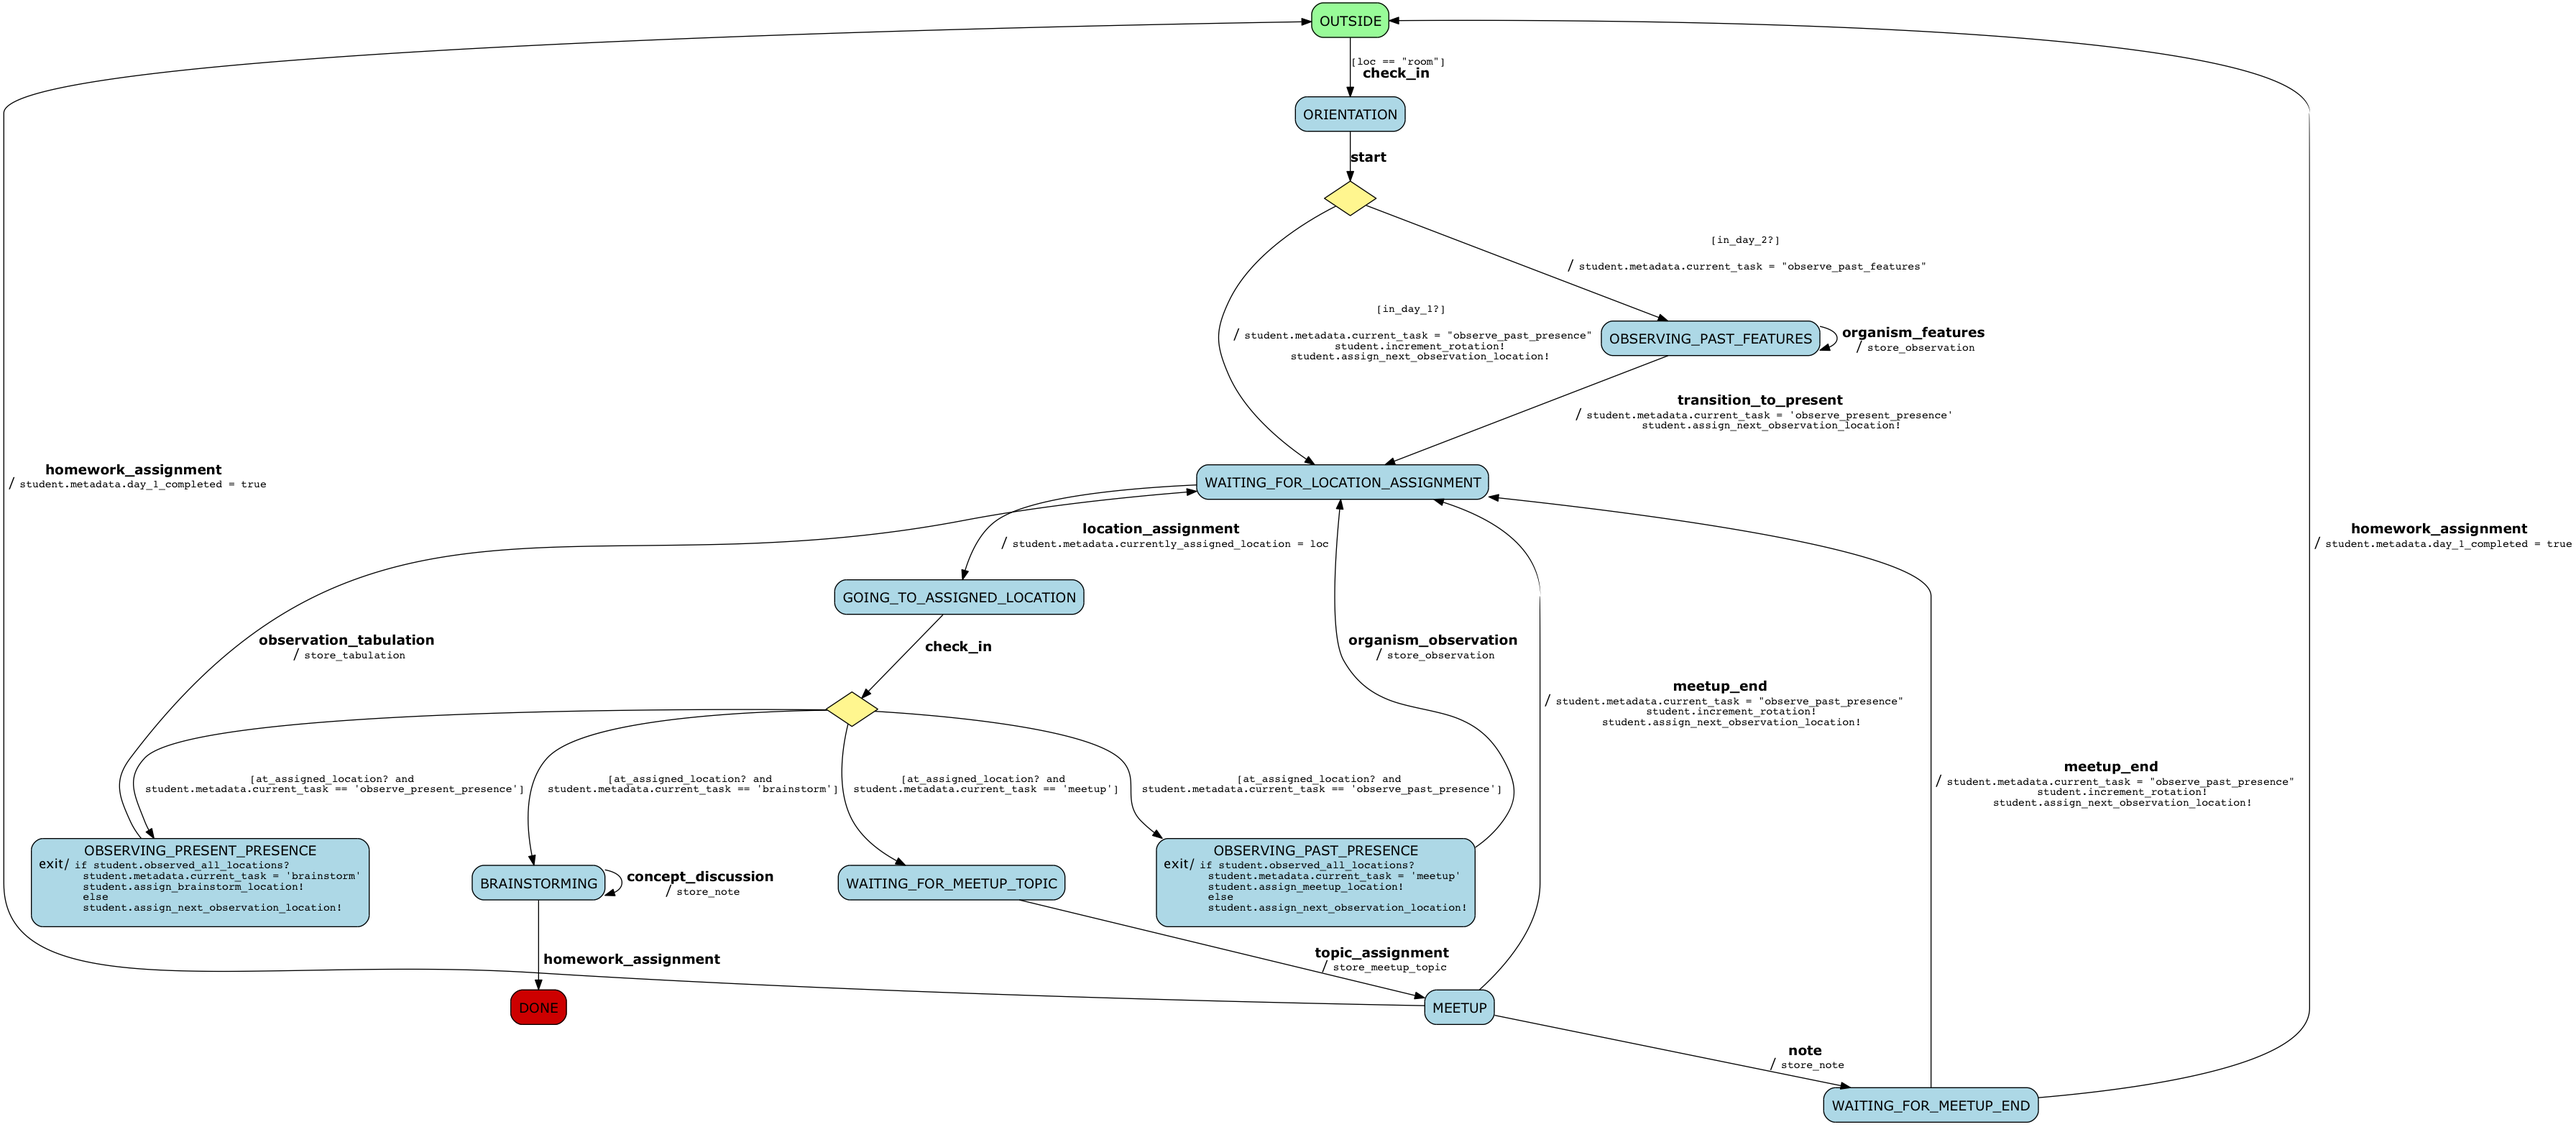
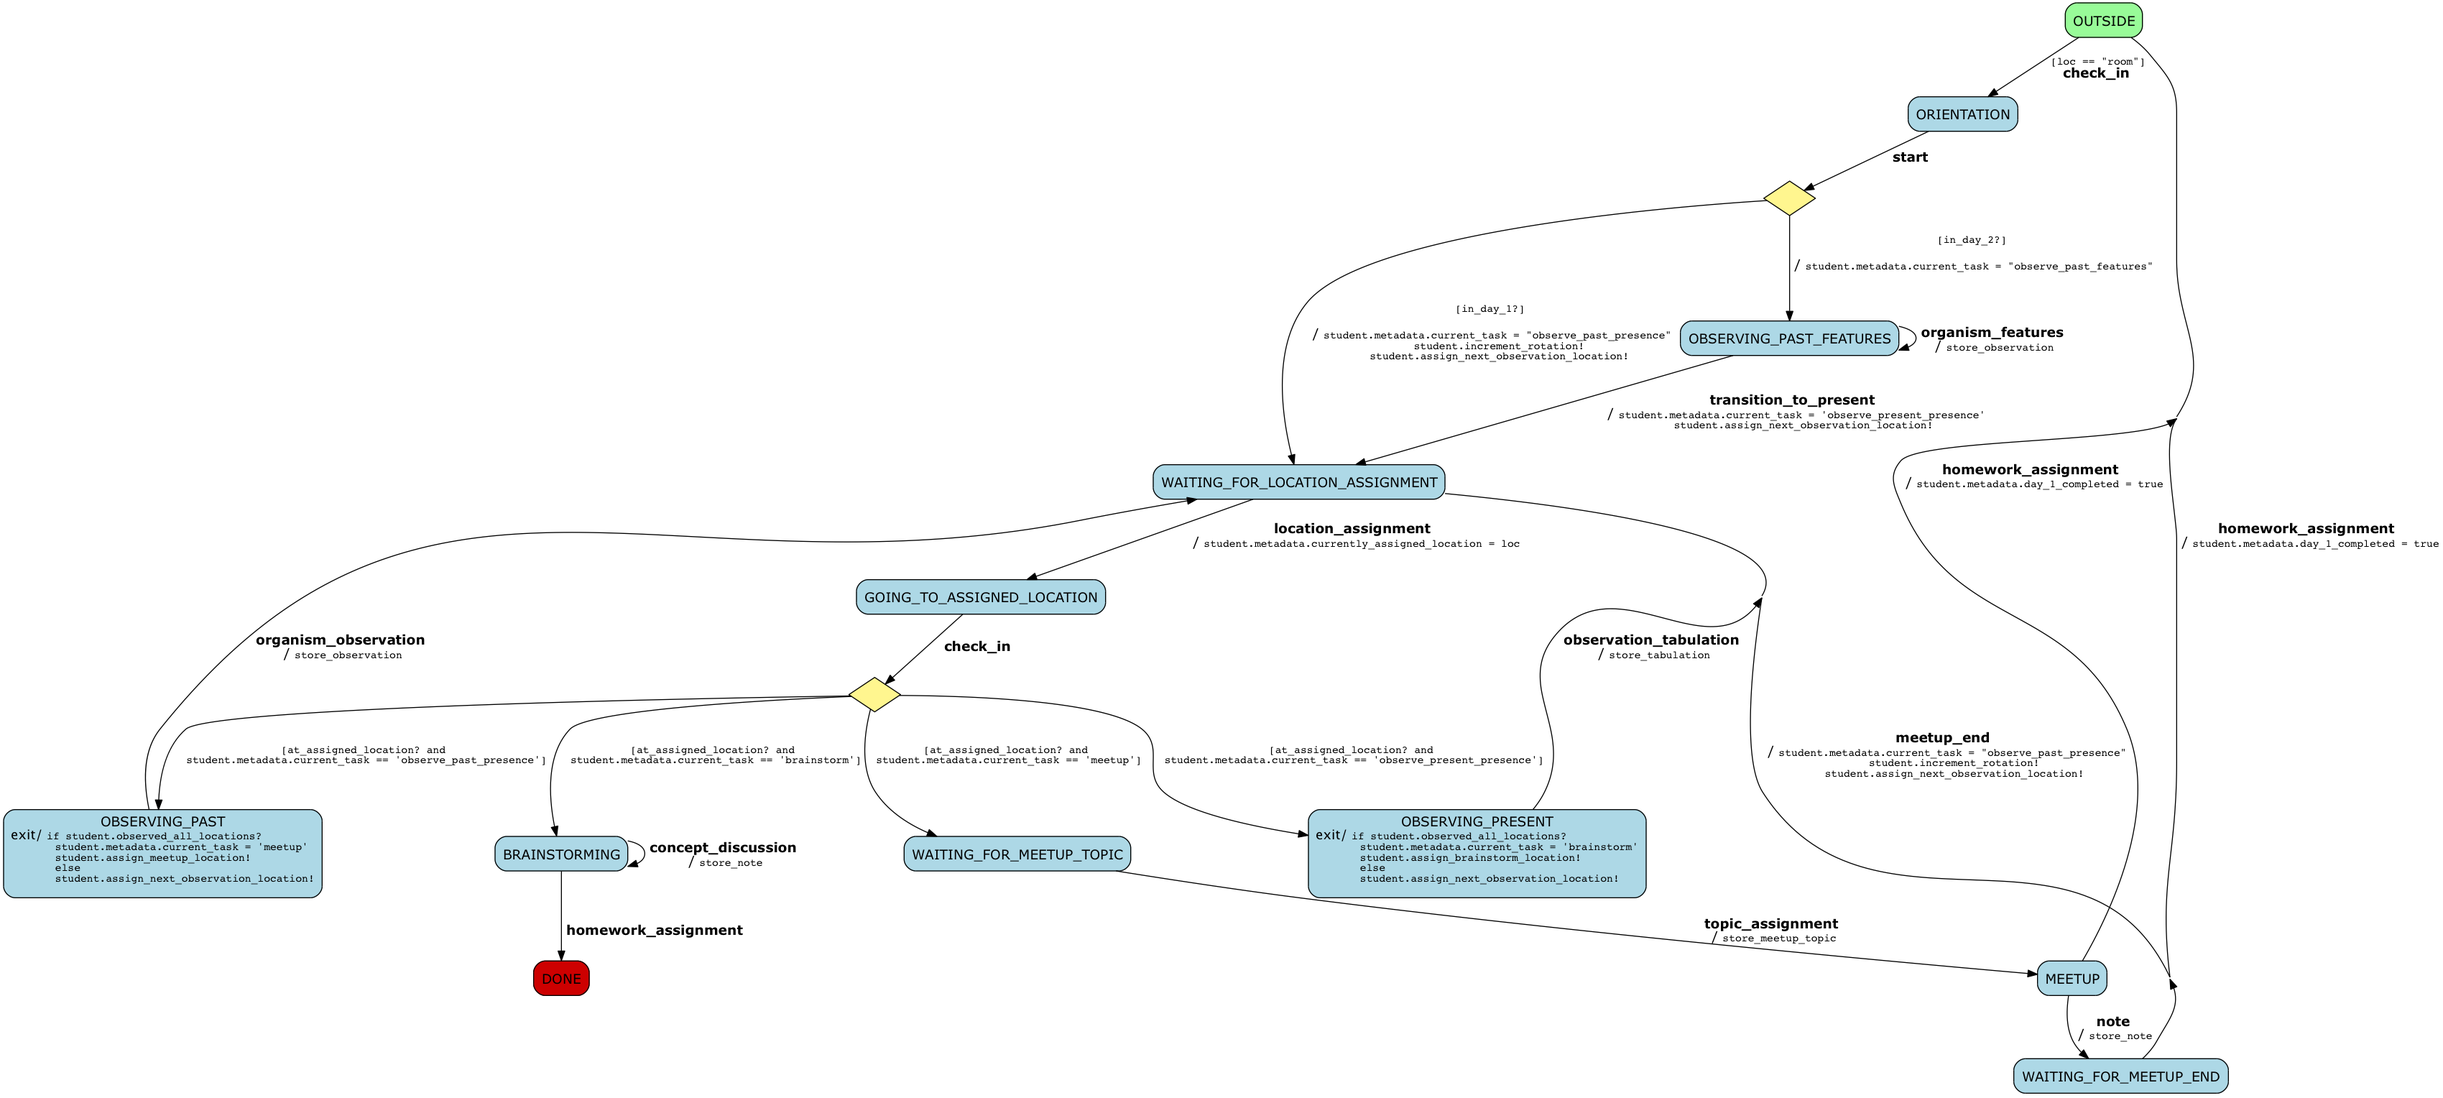
simplified state machine a bit and regenerated diagram with concetrate => true

diff --git a/agents/model/student_statemachine.rb b/agents/model/student_statemachine.rb
@@ -53,7 +53,7 @@ StudentStatemachine = proc do
     end
   end
 
-  state :OBSERVING_PAST_PRESENCE do
+  state :OBSERVING_PAST do
     exit do |student|
       if student.observed_all_locations?
         student.metadata.current_task = 'meetup'
@@ -70,8 +70,8 @@ StudentStatemachine = proc do
     on :check_in do
       guard :at_assigned_location?, :failure_message => "the student is at the wrong location"
       transition :to => :WAITING_FOR_MEETUP_TOPIC, :if => proc{|student| student.metadata.current_task == 'meetup'}
-      transition :to => :OBSERVING_PAST_PRESENCE, :if => proc{|student| student.metadata.current_task == 'observe_past_presence'}
-      transition :to => :OBSERVING_PRESENT_PRESENCE, :if => proc{|student| student.metadata.current_task == 'observe_present_presence'}
+      transition :to => :OBSERVING_PAST, :if => proc{|student| student.metadata.current_task == 'observe_past_presence'}
+      transition :to => :OBSERVING_PRESENT, :if => proc{|student| student.metadata.current_task == 'observe_present_presence'}
       transition :to => :BRAINSTORMING, :if => proc{|student| student.metadata.current_task == 'brainstorm'}
     end
     # on :check_in do
@@ -86,13 +86,6 @@ StudentStatemachine = proc do
   
   state :MEETUP do
     on :note, :to => :WAITING_FOR_MEETUP_END, :action => :store_note
-    on :meetup_end, :to => :WAITING_FOR_LOCATION_ASSIGNMENT do
-      action do |student|
-        student.metadata.current_task = "observe_past_presence"        
-        student.increment_rotation!
-        student.assign_next_observation_location!
-      end
-    end
     on :homework_assignment, :to => :OUTSIDE do
       action do |student|
         student.metadata.day_1_completed = true
@@ -125,7 +118,7 @@ StudentStatemachine = proc do
     end
   end
   
-  state :OBSERVING_PRESENT_PRESENCE do
+  state :OBSERVING_PRESENT do
     exit do |student|
       if student.observed_all_locations?
         student.metadata.current_task = 'brainstorm'
